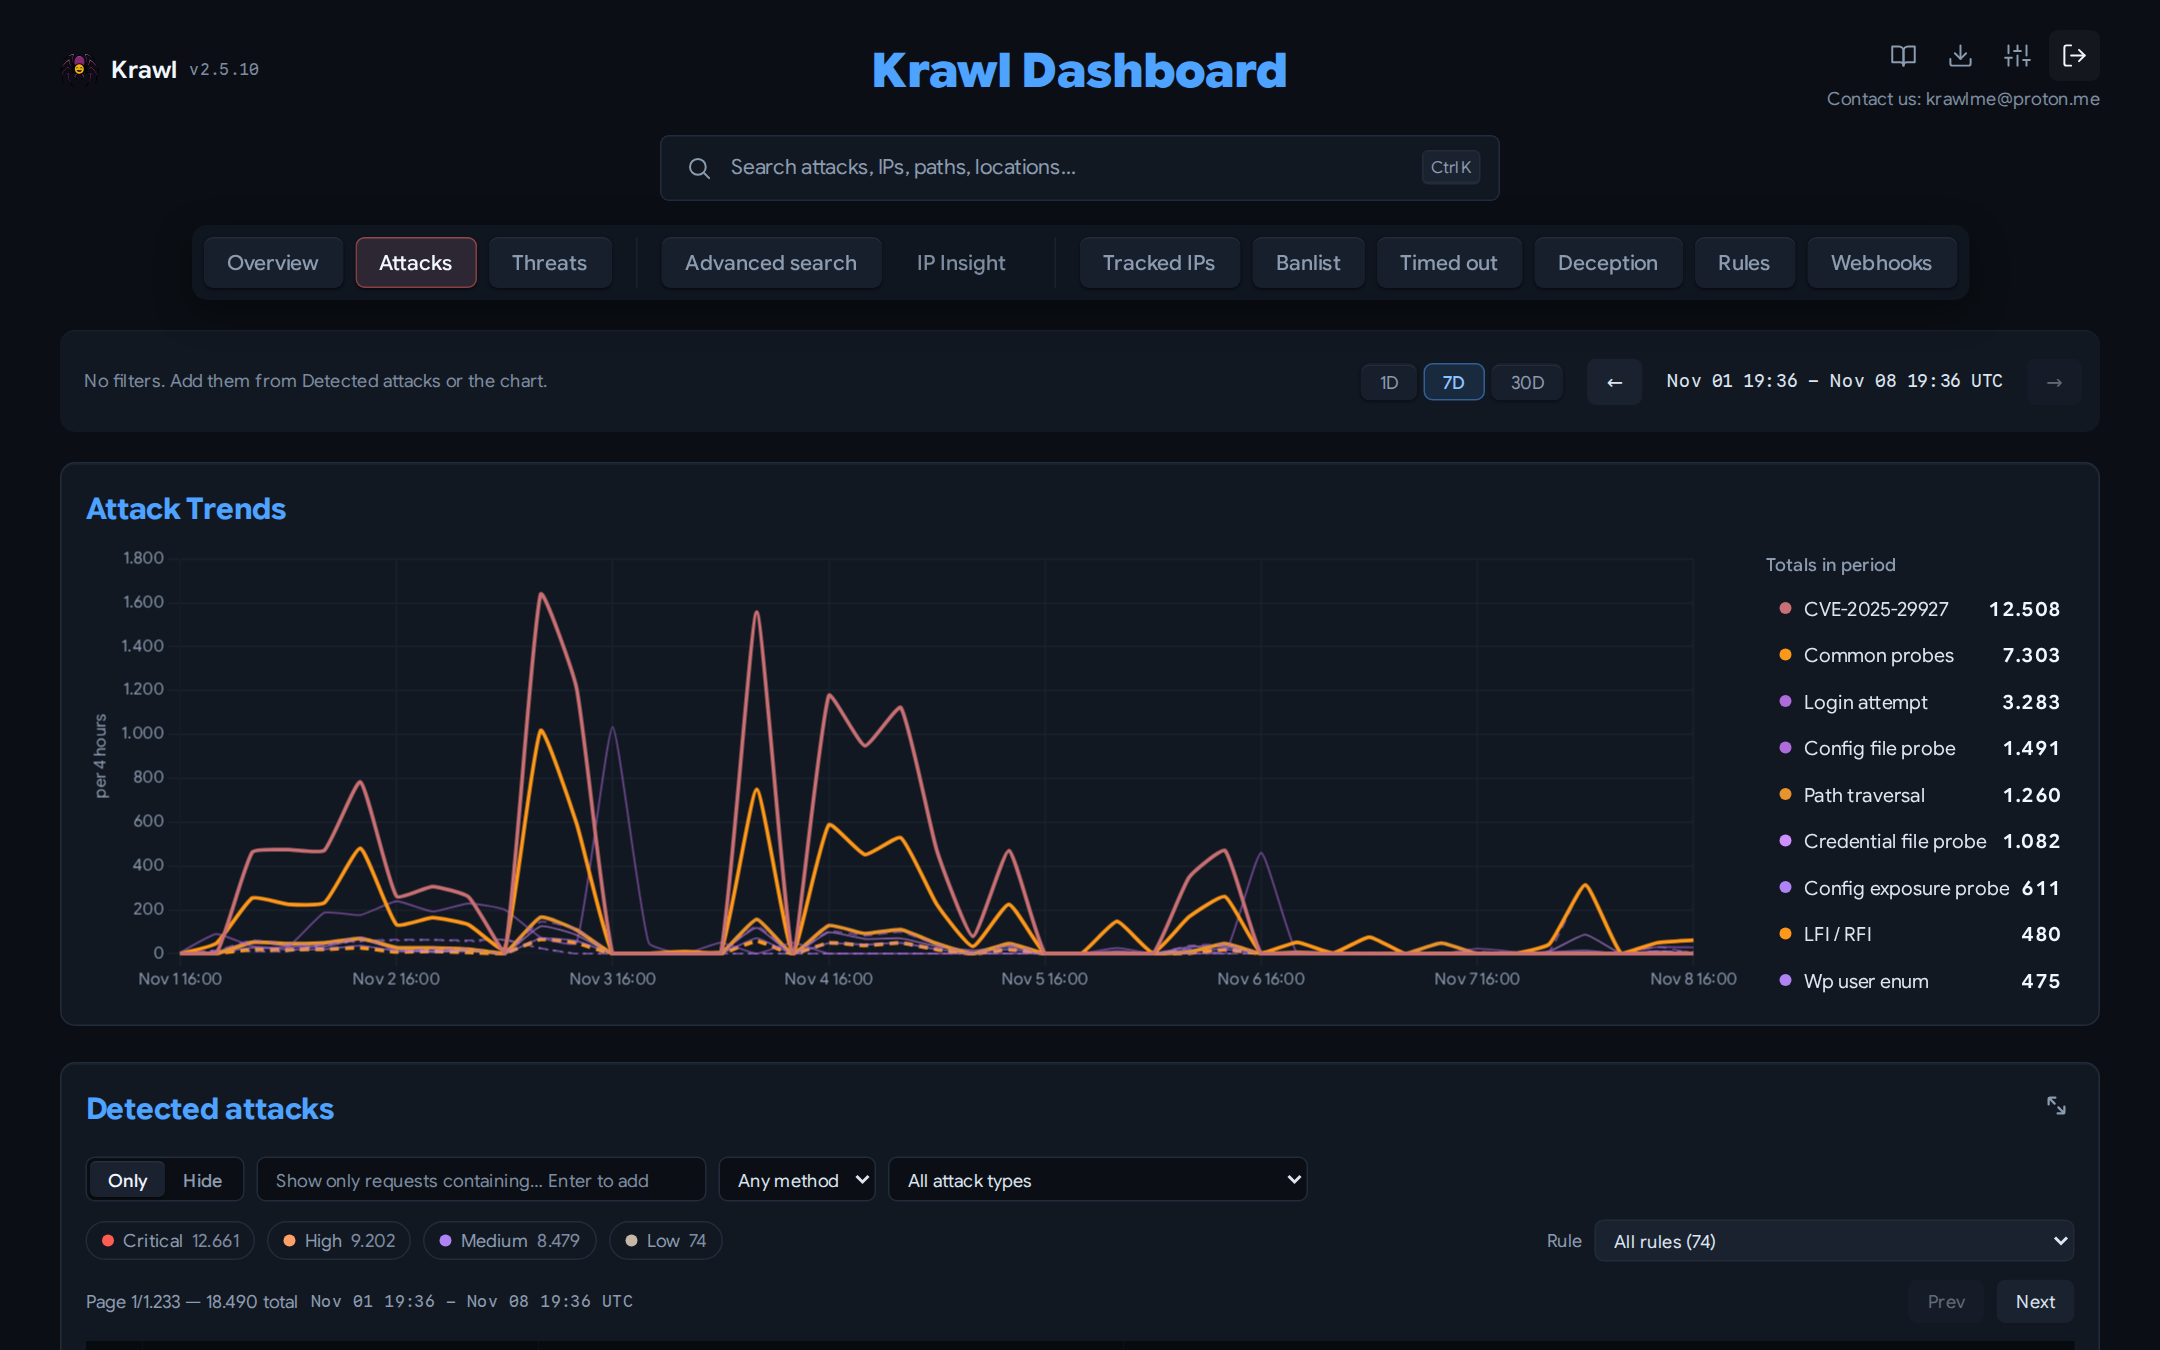
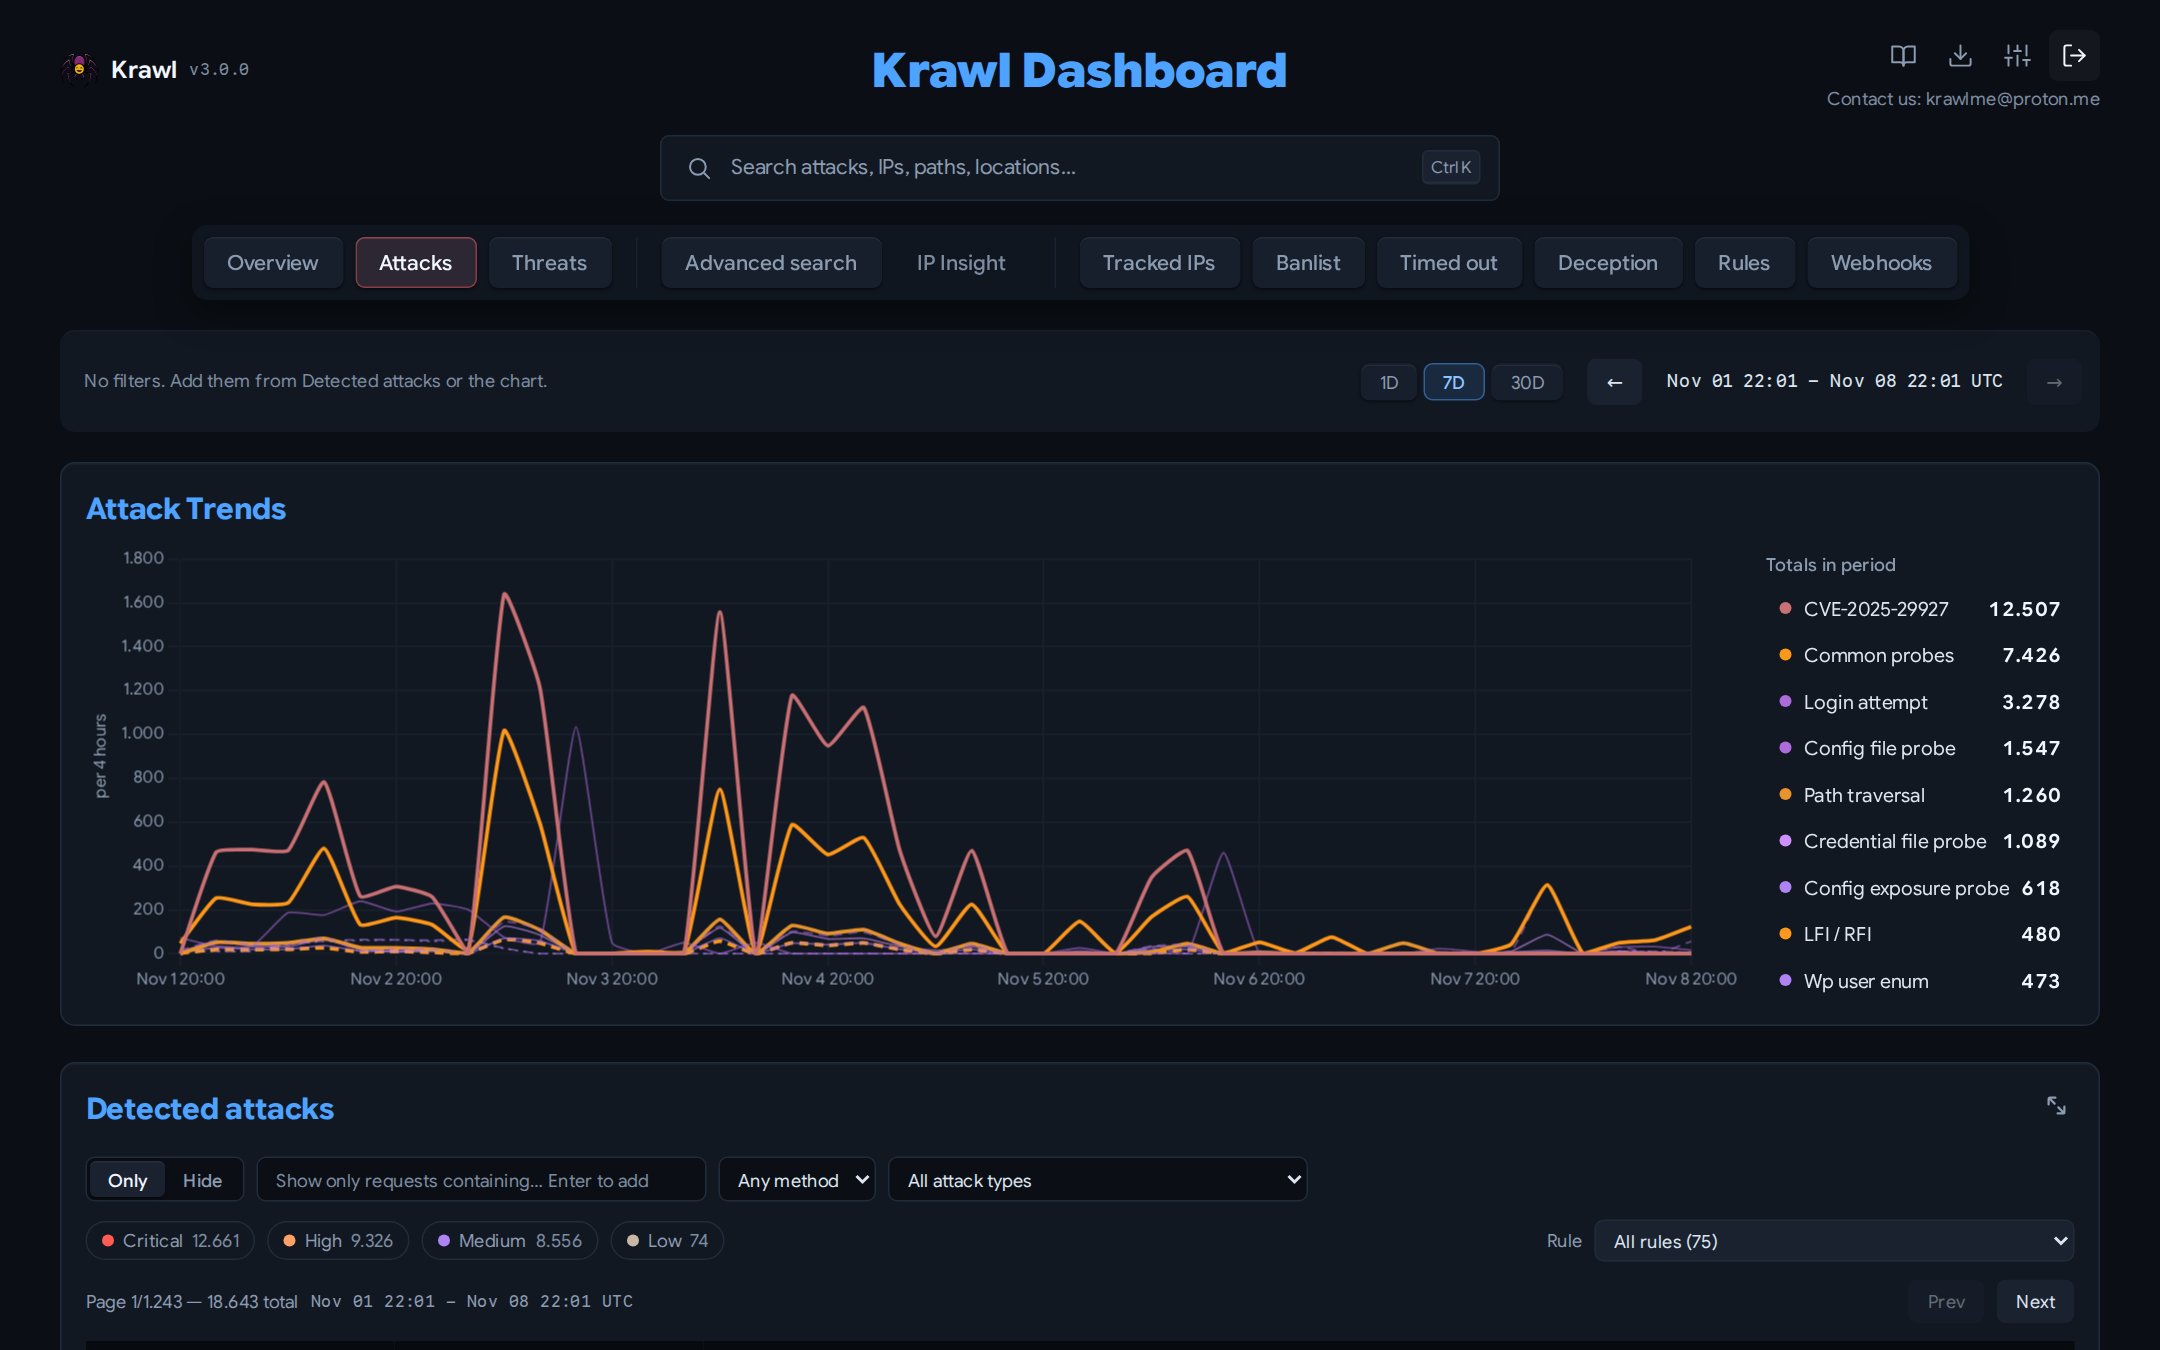
docs: 3.0.0 screenshots and an up-to-date IP reputation section
Retakes every dashboard screenshot from the 3.0.0 demo and replaces the
old IP reputation image with the current Behaviour panel. The README's
IP Reputation section now matches the analyze-ips task and links the
scoring docs; the AI section names the local engines; the TOC gains
Attack Detection; Documentation links the live site.

diff --git a/README.md b/README.md
@@ -48,11 +48,12 @@
   - [Uvicorn (Python)](#uvicorn-python)
 - [Configuration](#configuration)
 - [Ban Malicious IPs](#use-krawl-to-ban-malicious-ips)
+- [Attack Detection](#attack-detection)
 - [IP Reputation](#ip-reputation)
+- [Deception using AI](#ai-generated-deception-pages)
 - [Running Behind a Reverse Proxy or CDN](#running-behind-a-reverse-proxy-or-cdn)
 - [Metrics & Monitoring](#metrics--monitoring)
 - [Documentation](#documentation)
-- [Deception using AI](#ai-generated-deception-pages)
 - [Contributing](#contributing)
 
 ## Demo
@@ -356,35 +357,28 @@ Every request is scanned by the [YARA](https://virustotal.github.io/yara/) rules
 Rules and replies are plain files: add a `.yar` rule, drop the fake files under `responses/`, list them in the manifest and restart. The [detection documentation](docs/detection.md) walks through the whole flow, from writing a rule to testing and shipping its fake reply.
 
 ## IP Reputation
-Krawl [uses tasks that analyze recent traffic to build and continuously update an IP reputation](src/tasks/analyze_ips.py) score. It runs periodically and evaluates each active IP address based on multiple behavioral indicators to classify it as an attacker, crawler, or regular user. Thresholds are fully customizable.
+Every minute the [`analyze-ips`](src/tasks/analyze_ips.py) task scores each new or flagged IP from its last 30 days of requests and puts it in one category: `attacker`, `bad_crawler`, `good_crawler` or `regular_user`. IPs not analysed yet show as unknown. The category drives bans, banlist exports and the dashboard.
 
 ![ip reputation](docs/img/ip-reputation.png)
 
-The analysis includes:
-- **Risky HTTP methods usage** (e.g. POST, PUT, DELETE ratios)
-- **Robots.txt violations**
-- **Request timing anomalies** (bursty or irregular patterns)
-- **User-Agent consistency**
-- **Attack detection** (attack types found by the [YARA rules](docs/detection.md))
+Five signals feed the score, each with a configurable threshold and weight:
+- **Risky HTTP methods**: the share of POST, PUT, DELETE, OPTIONS and PATCH requests
+- **robots.txt violations**: requests under a path Krawl's robots.txt disallows
+- **Uneven timing**: bursty or irregular gaps between requests
+- **User-Agent variety**: how many distinct user agents the IP sent
+- **Attack detection**: attack types found by the [YARA rules](docs/detection.md)
 
-Each signal contributes to a weighted scoring model that assigns a reputation category:
-- `attacker`
-- `bad_crawler`
-- `good_crawler`
-- `regular_user`
-- `unknown` (for insufficient data)
-
-The resulting scores and metrics are stored in the database and used by Krawl to drive dashboards, reputation tracking, and automated mitigation actions such as IP banning or firewall integration.
+The IP Insight page draws them as the radar above, with each category's score below it; the highest score wins. [How IPs are evaluated](docs/algorithms.md) has the scoring table and a worked example.
 
 ## AI-Generated Deception Pages
 
-Krawl can automatically generate realistic deception pages using AI models from **OpenRouter** or **OpenAI** APIs. This feature creates unique, plausible honeypot pages on-the-fly to deceive attackers without manual page creation.
+Krawl can automatically generate realistic deception pages using AI models from **OpenRouter**, **OpenAI**, or any OpenAI-compatible engine such as **Ollama** or **llama.cpp**. This feature creates unique, plausible honeypot pages on-the-fly to deceive attackers without manual page creation.
 
 **Key Features:**
 - **Dynamic Generation**: Creates unique HTML pages for any request path
 - **Smart Caching**: Caches generated pages to avoid redundant API calls
 - **Daily Rate Limiting**: Control API costs with configurable request limits
-- **Multiple Providers**: Support for OpenRouter (free options) and OpenAI
+- **Multiple Providers**: OpenRouter (free options), OpenAI, or a local OpenAI-compatible engine
 - **Graceful Fallback**: Falls back to standard honeypot when disabled or limit reached
 - **Cached Serving**: Previously generated pages served even when AI is disabled
 
@@ -417,7 +411,7 @@ See the [Monitoring documentation](docs/monitoring.md) for the full metric list,
 
 ## Documentation
 
-The full documentation lives in [docs/](docs/index.md): configuration,
+The full documentation is live at **[blessedrebus.github.io/Krawl](https://blessedrebus.github.io/Krawl/)**, and its source is in [docs/](docs/index.md): configuration,
 deployment, detection rules, the dashboard, the API and operations. Upgrading
 from 2.4? Start with [Upgrading from 2.4 to 3.0](docs/upgrading.md).
 

diff --git a/docs/algorithms.md b/docs/algorithms.md
@@ -12,6 +12,8 @@ config knobs, and known limits.
 `good_crawler` or `regular_user` — from its behaviour. The category drives bans,
 banlist exports and the dashboard.
 
+![The Behaviour panel of IP Insight: the signals as a radar, and each category's score](img/ip-reputation.png)
+
 **When.** `analyze-ips` runs every minute and takes up to `tasks.analyze_ips_batch`
 IPs (default 2000): those never analysed, then those flagged `need_reevaluation`,
 oldest analysis first. `flag-stale-ips` (daily) flags IPs seen within
